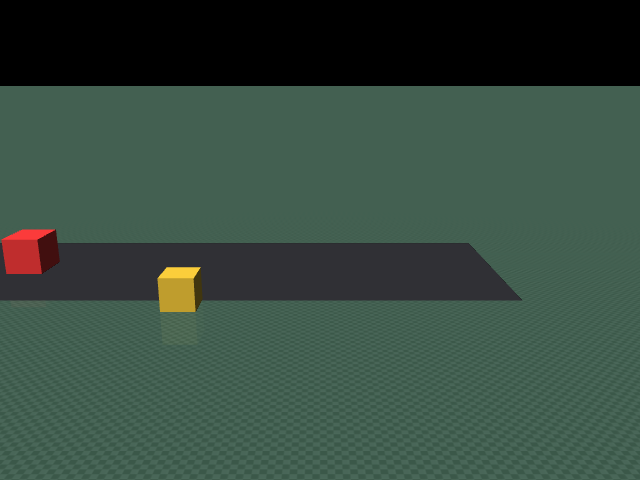
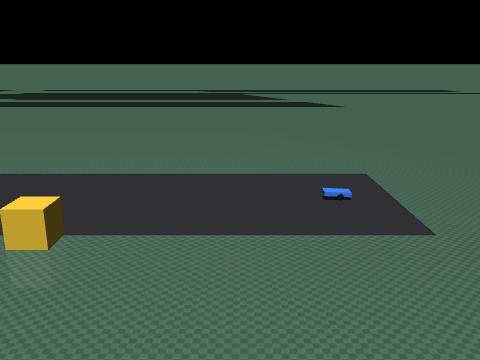
fix: enable car geom group 3 rendering, replace GIF with real animation, address review

diff --git a/src/ground/mujoco_car_avoidance/mujoco_car_avoidance/car_env.py b/src/ground/mujoco_car_avoidance/mujoco_car_avoidance/car_env.py
@@ -231,7 +231,13 @@ class CarEnv:
                 "  - 虚拟机里打不开窗口时先试："
                 "MESA_GL_VERSION_OVERRIDE=3.3 python3 main.py --demo；\n"
                 "  - 仍失败可安装 sudo apt install -y libglfw3 libgl1".format(exc))
-        return self.mujoco.viewer.launch_passive(self.model, self.data)
+        viewer = self.mujoco.viewer.launch_passive(self.model, self.data)
+        # 车体 geoms 在 group=3，默认视窗不渲染该组；显式开启让车可见。
+        try:
+            viewer.opt.geomgroup[3] = 1
+        except AttributeError:
+            pass
+        return viewer
 
     # ------------------------------------------------------------------ 诊断
     def set_pitch_deg(self, degrees: float) -> None:

diff --git a/docs/ground/mujoco_car_avoidance.md b/docs/ground/mujoco_car_avoidance.md
@@ -348,7 +348,7 @@ ros2 topic pub /mujoco_car_avoidance/cmd_vel geometry_msgs/Twist \
 ### 7.3 结论
 
 - **决策阈值自洽**：逻辑级闭环与 MuJoCo 实测都能在不碰撞的前提下停在障碍物前约 2 m，
-  且减速段车速单调下降，不出现二次加速。
+  且减速段指令速度 \(v_{cmd}\) 单调下降，不出现二次加速（实际车速 \(v_{actual}\) 因轮胎-地面粘滑会有小幅抖动）。
 - **感知与真值口径一致**：射线起点位于前保险杠，实测 \(d_{\min} = 2.048\,\text{m}\) 与
   \(c_{\min} = 2.048\,\text{m}\) 完全一致，说明射线始终打在目标障碍物上，没有误检。
 - **本车道判定有效**：路侧干扰物放在 \(y = 1.8\,\text{m}\)，贴着它开过去（约 4.5 m 行程）

diff --git a/src/ground/mujoco_car_avoidance/README.md b/src/ground/mujoco_car_avoidance/README.md
@@ -92,6 +92,8 @@ bash main.sh                      # 等价于 --headless
 
 先跑 `--test`，再跑 `--headless`，最后录 `--demo` / `--interactive` 的效果图。
 
+> Windows 环境请确保仓库路径不含中文，否则 MuJoCo 加载模型会报 `ParseXML: Error opening file`。
+
 ## 参数
 
 | 参数 | 默认值 | 含义 |
